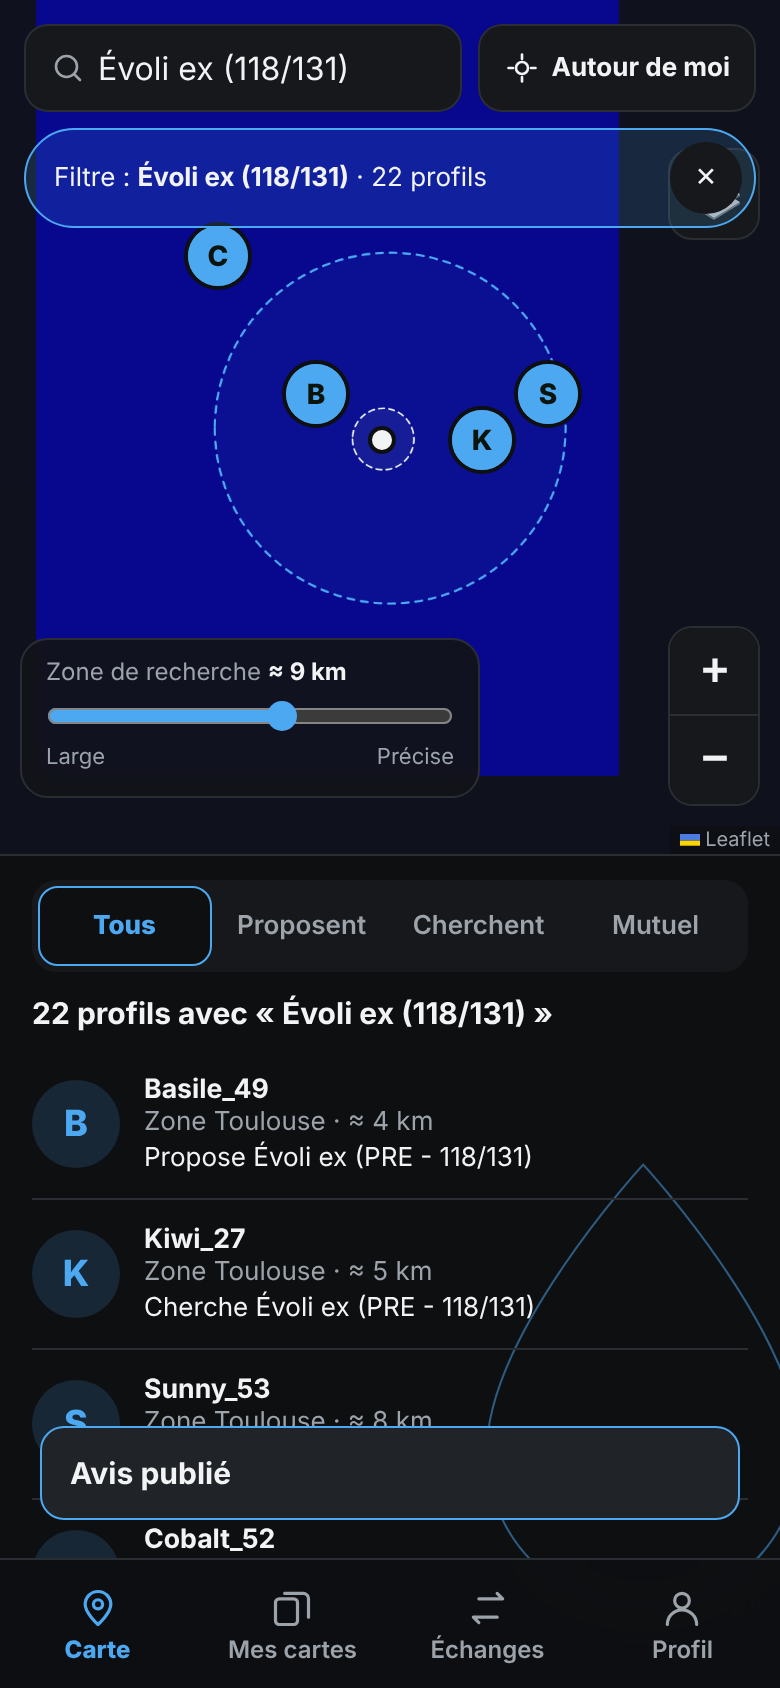
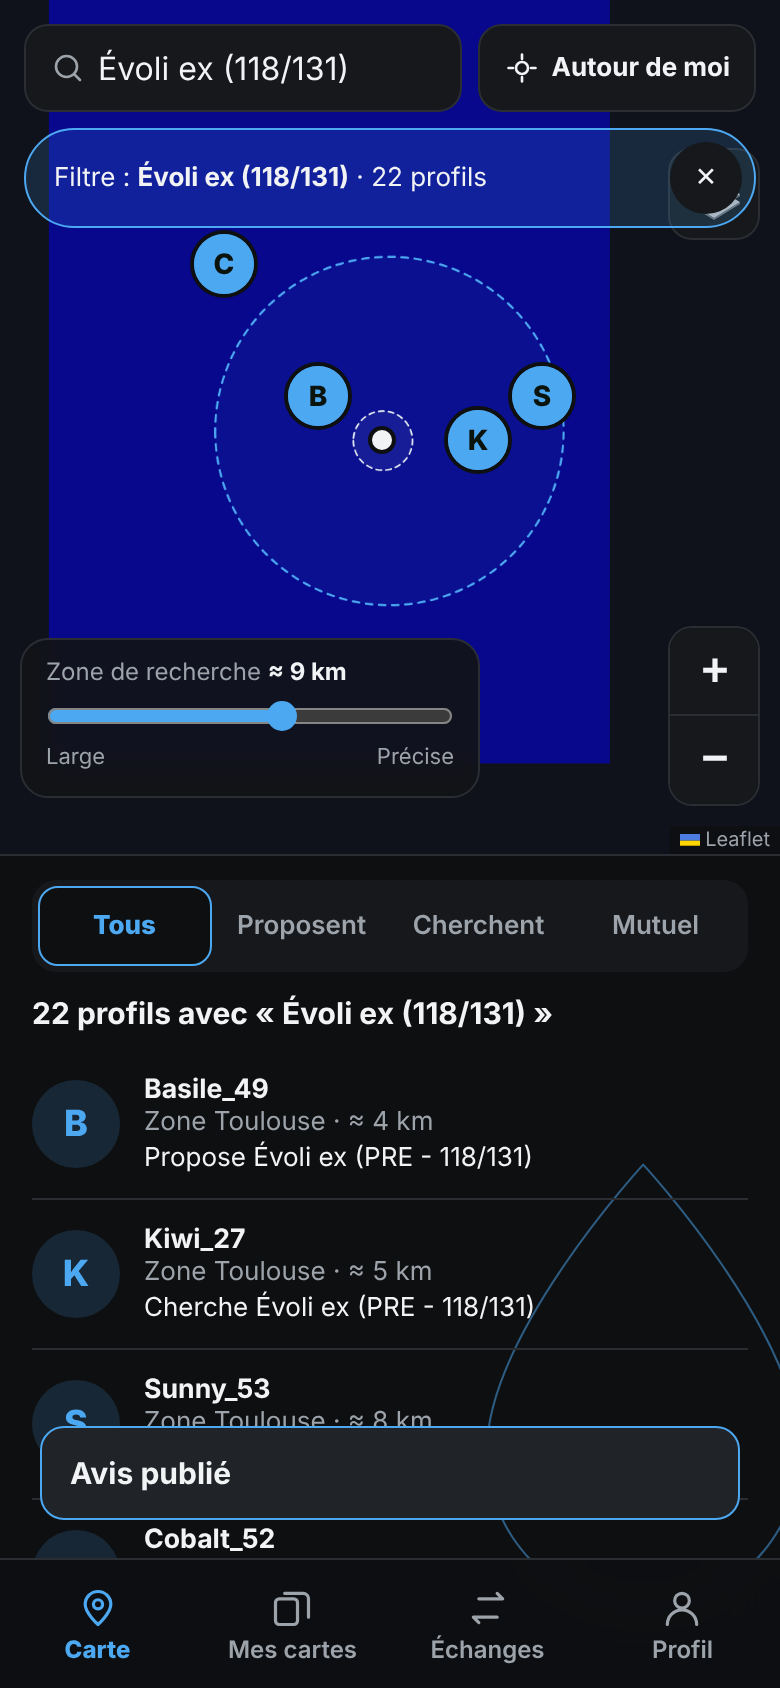
edit énergie, liens dons

diff --git a/js/app.js b/js/app.js
@@ -175,7 +175,7 @@ function showcaseCard(it){
 }
 function vLanding(){
  loadShowcase();
- var sc=S.showcase||[],first=sc[0];
+ var sc=S.showcase||[],first=sc.length>1?sc[1]:sc[0];
  var dcard=first?'<div class="democard"><div style="display:flex;justify-content:space-between;align-items:center"><span class="name">Zone '+esc(first.zone_label||'')+'</span><span class="chip acc">À l\'échange</span></div><div class="muted" style="margin-top:4px">Propose '+label(first)+(first.variant?' · '+esc(first.variant):'')+'</div></div>'
   :TK.demo?'<div class="democard"><div style="display:flex;justify-content:space-between;align-items:center"><span class="name">Lune_47 · ≈ 2 km</span><span class="chip acc">Mutuel</span></div><div class="muted" style="margin-top:4px">Propose Lucario (102/96) · cherche Pikachu PSA 9</div></div>'
   :'<div class="democard"><div class="name">Sois le premier !</div><div class="muted" style="margin-top:4px">Crée ton compte et propose une carte près de chez toi.</div></div>';
@@ -191,7 +191,7 @@ function vLanding(){
  ''+fan+dcard+'</div></section>'+
  strip+'<section class="feats" aria-label="Fonctionnement">'+
  [['Une carte des échanges','Vois ce que les gens proposent ou cherchent autour de toi, en zones approximatives.'],['Des cartes bien identifiées','Numéro de carte, photos recto et verso, état ou grade, estimation du moment.'],['En main propre','Rendez-vous en boutique partenaire ou lieu public. Rien ne passe par nous.']].map(function(f){return '<div class="card"><h3>'+f[0]+'</h3><div class="muted">'+f[1]+'</div></div>';}).join('')+'</section>'+
- '<footer class="ofoot note">Projet indépendant, non affilié à Nintendo, Creatures, GAME FREAK ni The Pokémon Company. Pokémon est une marque de ses propriétaires.<br><a href="legal.html#mentions">Mentions légales</a> · <a href="legal.html#confidentialite">Confidentialité</a> · <a href="legal.html#cgu">Conditions</a></footer></div>';
+ '<footer class="ofoot note">Projet indépendant, non affilié à Nintendo, Creatures, GAME FREAK ni The Pokémon Company. Pokémon est une marque de ses propriétaires.<br><a href="legal.html#mentions">Mentions légales</a> · <a href="legal.html#confidentialite">Confidentialité</a> · <a href="legal.html#cgu">Conditions</a>'+((window.TK_CONFIG||{}).SUPPORT_URL?' · <a href="'+esc((window.TK_CONFIG||{}).SUPPORT_URL)+'" target="_blank" rel="noopener">Soutenir Trokémon</a>':'')+'</footer></div>';
 }
 function field(id,lbl,type,ph,val,ac){
  return '<div style="margin-bottom:14px"><label class="muted" for="'+id+'">'+lbl+'</label><input id="'+id+'" name="'+id+'" class="field" type="'+type+'" placeholder="'+ph+'" value="'+esc(val||'')+'" autocomplete="'+ac+'"></div>';
@@ -370,6 +370,7 @@ async function loadMapData(b){
  }catch(e){toast(TK.frError(e));}
 }
 function mountMap(){
+ if(S.mv.auto){S.mv.auto=false;try{S.mv.z=TK.map.zoomForKm($('#lmap'),S.mv.lat,85);}catch(e){}}
  TK.map.mount($('#lmap'),{
   center:[S.mv.lat,S.mv.lng],zoom:S.mv.z,
   onSelect:function(id){S.selected=id;syncMap();},
@@ -377,7 +378,10 @@ function mountMap(){
   onZoom:function(z){var zs=$('#zslider');if(zs&&document.activeElement!==zs){zs.value=z;}var rl=$('#rlabel');if(rl){rl.textContent=radiusLabel(TK.map.radiusKm());}}
  });
  var me=S.geo||(S.user&&S.user.zone_lat!=null?{lat:S.user.zone_lat,lng:S.user.zone_lng}:null);
+
  TK.map.setMe(me);
+ S.radius=TK.map.radiusKm();
+ var zs0=$('#zslider'),rl0=$('#rlabel');if(zs0&&S.mv.z){zs0.value=S.mv.z;}if(rl0){rl0.textContent=radiusLabel(S.radius);}
  syncMap();
 }
 function showSugg(){
@@ -925,6 +929,7 @@ function morphKids(a,b){
 }
 function render(){
  var app=$('#app'),html='';
+ try{document.body.setAttribute('data-depth',String((S.stack?S.stack.length:0)+(S.sheet?1:0)));}catch(e){}
  TK.map.destroy();
  clearInterval(S.poll);S.poll=0;
  var p=S.phase;
@@ -988,7 +993,7 @@ function loadUser(){
    S.user=u;S.energy=u.energy||null;applyTheme();
    await loadMine();
    try{S.blocked=await DB.myBlocks();S.blockedList=await DB.listBlocked();}catch(e){S.blocked=[];S.blockedList=[];}
-   if(u.zone_lat!=null){S.mv={lat:u.zone_lat,lng:u.zone_lng,z:11};}
+   if(u.zone_lat!=null){S.mv={lat:u.zone_lat,lng:u.zone_lng,z:11,auto:true};}
    S.tab='carte';S.stack=[];S.err='';
    S.phase=S.recover?'recover':u.onboarded?'app':'photo';
   }catch(e){S.err=TK.frError(e);S.phase='fatal';}
@@ -1448,7 +1453,7 @@ var ACT={
   var onboarding=S.phase==='zone',patch={zone_label:S.zonePick.label,zone_lat:S.zonePick.lat,zone_lng:S.zonePick.lng};
   if(onboarding){patch.onboarded=true;if(!S.user.avatar_url){patch.avatar_url='preset:'+Math.floor(Math.random()*PRESETS.length);}}
   if(await saveProfile(patch)){
-   S.mv={lat:S.user.zone_lat,lng:S.user.zone_lng,z:11};S.sheet=null;S.zonePick=null;
+   S.mv={lat:S.user.zone_lat,lng:S.user.zone_lng,z:11,auto:true};S.sheet=null;S.zonePick=null;
    if(onboarding){S.phase='app';S.tab='carte';}
    render();toast('Zone enregistrée');
   }

diff --git a/js/pwa.js b/js/pwa.js
@@ -7,14 +7,17 @@
  function mobile(){return (window.matchMedia&&matchMedia('(pointer: coarse)').matches)&&Math.min(screen.width,innerWidth)<=900;}
  function ios(){var u=navigator.userAgent;return /iPad|iPhone|iPod/.test(u)||(navigator.platform==='MacIntel'&&navigator.maxTouchPoints>1);}
  function dismissed(){var t=+get();return t&&Date.now()-t<DAYS*864e5;}
- function remove(){if(bar&&bar.parentNode){bar.parentNode.removeChild(bar);}bar=null;}
+ function remove(){if(bar&&bar.parentNode){bar.parentNode.removeChild(bar);}bar=null;document.body.classList.remove('pwa-on');}
  function closeSheet(){if(sheet&&sheet.parentNode){sheet.parentNode.removeChild(sheet);}sheet=null;}
  function pos(){
   if(!bar){return;}
-  var tb=document.querySelector('.tabbar'),h=0;
-  if(tb&&tb.offsetParent!==null){h=tb.getBoundingClientRect().height;}
-  bar.style.bottom='calc('+Math.round(h)+'px + env(safe-area-inset-bottom,0px) + 8px)';
-  if(h){bar.style.bottom=Math.round(h+8)+'px';}
+  var tb=document.querySelector('.tabbar'),vis=!!(tb&&tb.offsetParent!==null);
+  /* masquée dans les sous-pages et les fenêtres ; sinon on réserve de la place en bas des pages */
+  var hide=(document.querySelector('.shell')&&!vis)||(document.body.getAttribute('data-depth')||'0')!=='0'||document.querySelector('.sheet-bg,.foot');
+  bar.style.display=hide?'none':'';
+  document.body.classList.toggle('pwa-on',!hide);
+  if(vis){bar.style.bottom=Math.max(8,Math.round(innerHeight-tb.getBoundingClientRect().top)+8)+'px';}
+  else{bar.style.bottom='calc(8px + env(safe-area-inset-bottom,0px))';}
  }
  function showSheet(){
   if(sheet){return;}
@@ -35,7 +38,8 @@
   bar=document.createElement('div');bar.className='pwa-bar';
   bar.innerHTML='<img src="icon-192.png" alt="" width="36" height="36"><span>Installer l\'appli</span><button type="button" class="btn primary" data-pwa="go">Installer</button><button type="button" class="pwa-x" data-pwa="x" aria-label="Fermer">×</button>';
   bar.addEventListener('click',function(e){var a=e.target.getAttribute&&e.target.getAttribute('data-pwa');if(a==='go'){install();}else if(a==='x'){set(String(Date.now()));remove();}});
-  document.body.appendChild(bar);pos();
+  document.body.appendChild(bar);document.body.classList.add('pwa-on');pos();
+  try{var ap=document.getElementById('app');if(ap&&window.MutationObserver){new MutationObserver(pos).observe(ap,{childList:true,subtree:true});}}catch(e){}
  }
  window.addEventListener('beforeinstallprompt',function(e){e.preventDefault();deferred=e;setTimeout(show,1500);});
  window.addEventListener('appinstalled',function(){deferred=null;remove();closeSheet();set(String(Date.now()+365*864e5-DAYS*864e5));});

diff --git a/css/style.css b/css/style.css
@@ -249,7 +249,7 @@ details.sub .cgrid{padding-bottom:6px}
 :root{--glow:rgba(245,200,66,.1);--glow2:rgba(245,200,66,.05);--tile:none;}
 #decor{position:fixed;inset:0;z-index:0;pointer-events:none;background:radial-gradient(900px 520px at 85% -12%,var(--glow),transparent 70%),var(--bg);transition:background .4s}
 /* un seul grand symbole d'énergie, très discret, dans un coin */
-#decor::after{content:"";position:absolute;right:-110px;bottom:-4vh;width:340px;height:340px;background:var(--tile) no-repeat center/contain;opacity:1}
+#decor::after{content:"";position:absolute;right:28px;bottom:calc(150px + env(safe-area-inset-bottom,0px));width:180px;height:180px;background:var(--tile) no-repeat center/contain;opacity:1}
 /* la lueur change simplement de place selon l'énergie */
 #decor[data-e=feu]{background:radial-gradient(900px 480px at 50% 120%,var(--glow),transparent 70%),var(--bg)}
 #decor[data-e=eau]{background:radial-gradient(900px 520px at 10% -12%,var(--glow),transparent 70%),var(--bg)}
@@ -266,7 +266,10 @@ details.sub .cgrid{padding-bottom:6px}
 @keyframes tkpulse{0%,100%{transform:scale(1) rotate(0)}50%{transform:scale(1.08) rotate(6deg)}}
 @media(prefers-reduced-motion:reduce){.bootmark .lmark{animation:none}}
 /* chrome translucide pour laisser voir le décor */
-.tabbar,.side{background:rgba(14,15,17,.82);backdrop-filter:blur(10px)}
+.side{background:rgba(14,15,17,.82);backdrop-filter:blur(10px)}
+.tabbar{background:var(--bg);position:relative;z-index:5;flex:none}
+html,body{overscroll-behavior:none}
+.scroll,.outer,.pg{overscroll-behavior-y:contain}
 .card{background:linear-gradient(180deg,rgba(255,255,255,.035),transparent 60%),var(--surface);box-shadow:inset 0 1px 0 rgba(255,255,255,.05)}
 .btn.primary{background:linear-gradient(180deg,rgba(255,255,255,.18),transparent 55%),var(--accent);box-shadow:0 6px 18px -6px var(--accent)}
 .top h1,.hero h1{font-family:var(--font-display);font-weight:600;letter-spacing:-.3px}
@@ -380,3 +383,10 @@ textarea.field{height:auto;padding:10px 12px;resize:vertical}
 .pwa-sh ol{margin:4px 0;padding-left:20px;line-height:1.5}
 .pwa-ic{display:inline-block;border:1px solid var(--line);border-radius:6px;padding:0 6px}
 @media (min-width:700px) and (pointer:fine){.pwa-bar{display:none}}
+
+.pwa-on .scroll{padding-bottom:84px}
+
+a.btn{display:flex;align-items:center;justify-content:center;text-align:center;text-decoration:none;color:var(--text);box-sizing:border-box}
+a.btn.primary{color:var(--on-accent)}
+
+#decor::after{display:none}

diff --git a/js/catalog.js b/js/catalog.js
@@ -115,11 +115,20 @@ TK.catImg=function(it,q){
  if(!src){return null;}
  return src.replace(/\/(low|high)\.(webp|png|jpg)$/,'')+'/'+(q||'high')+'.webp';
 };
+/* Produit scellé : type de produit reconnu + série => requête précise (et filtres « neuf » côté eBay). */
+TK.sealedQuery=function(it){
+ var n=String(it.name||'').toLowerCase(),sn=String(it.set_name||''),code='',m=sn.match(/\(([^)]+)\)\s*$/);
+ if(m){code=m[1];sn=sn.replace(/\s*\([^)]+\)\s*$/,'');}
+ var kind=/display/.test(n)?'display 36 boosters':/etb|[ée]lite|dresseur/.test(n)?'coffret dresseur d\'élite ETB':/bundle|lot de/.test(n)?'bundle 6 boosters':/tripack|tri-pack|trio/.test(n)?'tripack boosters':/booster/.test(n)?'booster':/tin|pokébox|pokebox/.test(n)?'pokébox tin':/ultra/.test(n)?'coffret ultra premium':/coffret|collection/.test(n)?'coffret collection':String(it.name||'');
+ var extra=/etb|[ée]lite|dresseur|display|bundle|tripack|booster/.test(n)?'':' '+String(it.name||'');
+ var keys=(kind+extra+' '+sn+' '+code).replace(/\s+/g,' ').trim();
+ return {q:keys+' pokemon',cm:(String(it.name||'')+' '+sn).trim(),code:code};
+};
 TK.buyLinks=function(it){
- var a=C.AFFILIATE||{},base=(it.name+' '+(it.set_name||'')).trim(),q=encodeURIComponent(base+' pokemon');
- var ebay='https://www.ebay.fr/sch/i.html?_nkw='+q+(a.ebay?'&'+String(a.ebay).replace(/^[?&]/,''):'');
+ var a=C.AFFILIATE||{},sq=TK.sealedQuery(it),q=encodeURIComponent(sq.q);
+ var ebay='https://www.ebay.fr/sch/i.html?_nkw='+q+'&LH_ItemCondition=1000&LH_BIN=1&_sop=15'+(a.ebay?'&'+String(a.ebay).replace(/^[?&]/,''):'');
  var amz='https://www.amazon.fr/s?k='+q+(a.amazon?'&tag='+encodeURIComponent(a.amazon):'');
- var cm='https://www.cardmarket.com/fr/Pokemon/Products/Search?searchString='+encodeURIComponent(base);
+ var cm='https://www.cardmarket.com/fr/Pokemon/Products/Search?searchString='+encodeURIComponent(sq.cm);
  return [{label:'Cardmarket',url:cm,aff:false},{label:'eBay',url:ebay,aff:!!a.ebay},{label:'Amazon',url:amz,aff:!!a.amazon}];
 };
 

diff --git a/js/map.js b/js/map.js
@@ -15,7 +15,8 @@ TK.map={
   TK.map.destroy();
   if(!L){el.innerHTML='<p class="muted" style="padding:16px">La carte n\'a pas pu se charger.</p>';return;}
   st.cb=opt;
-  var map=st.map=L.map(el,{zoomControl:false,minZoom:4,maxZoom:18,zoomSnap:0.5,worldCopyJump:false}).setView(opt.center,opt.zoom);
+  var map=st.map=L.map(el,{zoomControl:false,minZoom:4,maxZoom:18,zoomSnap:0,worldCopyJump:false}).setView(opt.center,opt.zoom);
+  map.options.zoomSnap=0.5;
   L.control.zoom({position:'bottomright',zoomInTitle:'Zoom avant',zoomOutTitle:'Zoom arrière'}).addTo(map);
   var key=C.CARTO_KEY?'?key='+encodeURIComponent(C.CARTO_KEY):'';
   function base(style){return L.tileLayer(C.TILE_URL.replace('{style}',style)+key,{maxZoom:20,maxNativeZoom:20,attribution:C.TILE_ATTRIBUTION,crossOrigin:true});}
@@ -54,6 +55,12 @@ TK.map={
   L.circle([me.lat,me.lng],{radius:ZONE_RADIUS_M,color:'#F1F3F4',weight:1.5,dashArray:'5 4',fillColor:'#F1F3F4',fillOpacity:.06,interactive:false}).addTo(g);
   L.marker([me.lat,me.lng],{icon:L.divIcon({className:'tk-ic',html:'<div class="me-dot"></div>',iconSize:[14,14]}),interactive:false,keyboard:false}).addTo(g);
   g.addTo(st.map);st.meLayer=g;
+ },
+ /* zoom pour lequel le disque de recherche fait ≈ km, dans un conteneur donné */
+ zoomForKm:function(el,lat,km){
+  var m=Math.min(el.clientWidth||360,el.clientHeight||360);if(m<50){m=360;}
+  var mpp=km*1000/(0.4*m);
+  return Math.max(4,Math.min(16,Math.log(156543.03392*Math.cos(lat*Math.PI/180)/mpp)/Math.LN2));
  },
  getZoom:function(){return st.map?st.map.getZoom():null;},
  setZoom:function(z){if(st.map){st.map.setZoom(z,{animate:!reduced()});}},

diff --git a/js/db.js b/js/db.js
@@ -291,7 +291,9 @@ function makeDemo(){
    var m={id:nid('m'),proposal_id:pid,sender:'me',body:body,created_at:new Date().toISOString()};DB.messages.push(m);return copy(m);
   },
   showcase:async function(){
-   return copy(DB.items.filter(function(i){return i.kind==='offer'&&i.status==='active'&&i.user_id!=='me';}).slice(0,8).map(function(i){var p=prof(i.user_id)||{};
+   var rare=DB.items.filter(function(i){return i.kind==='offer'&&i.status==='active'&&i.user_id!=='me'&&i.type==='loose'&&((i.value_eur||0)>=10||i.variant);});
+   for(var k=rare.length-1;k>0;k--){var j=Math.floor(Math.random()*(k+1)),tmp=rare[k];rare[k]=rare[j];rare[j]=tmp;}
+   return copy(rare.slice(0,8).map(function(i){var p=prof(i.user_id)||{};
     return {name:i.name,number:i.number,set_name:i.set_name,set_abbr:i.set_abbr||null,variant:i.variant||null,image:i.catalog_image||i.photo_front||null,zone_label:p.zone_label||''};}));
   },
   searchItems:async function(q){
